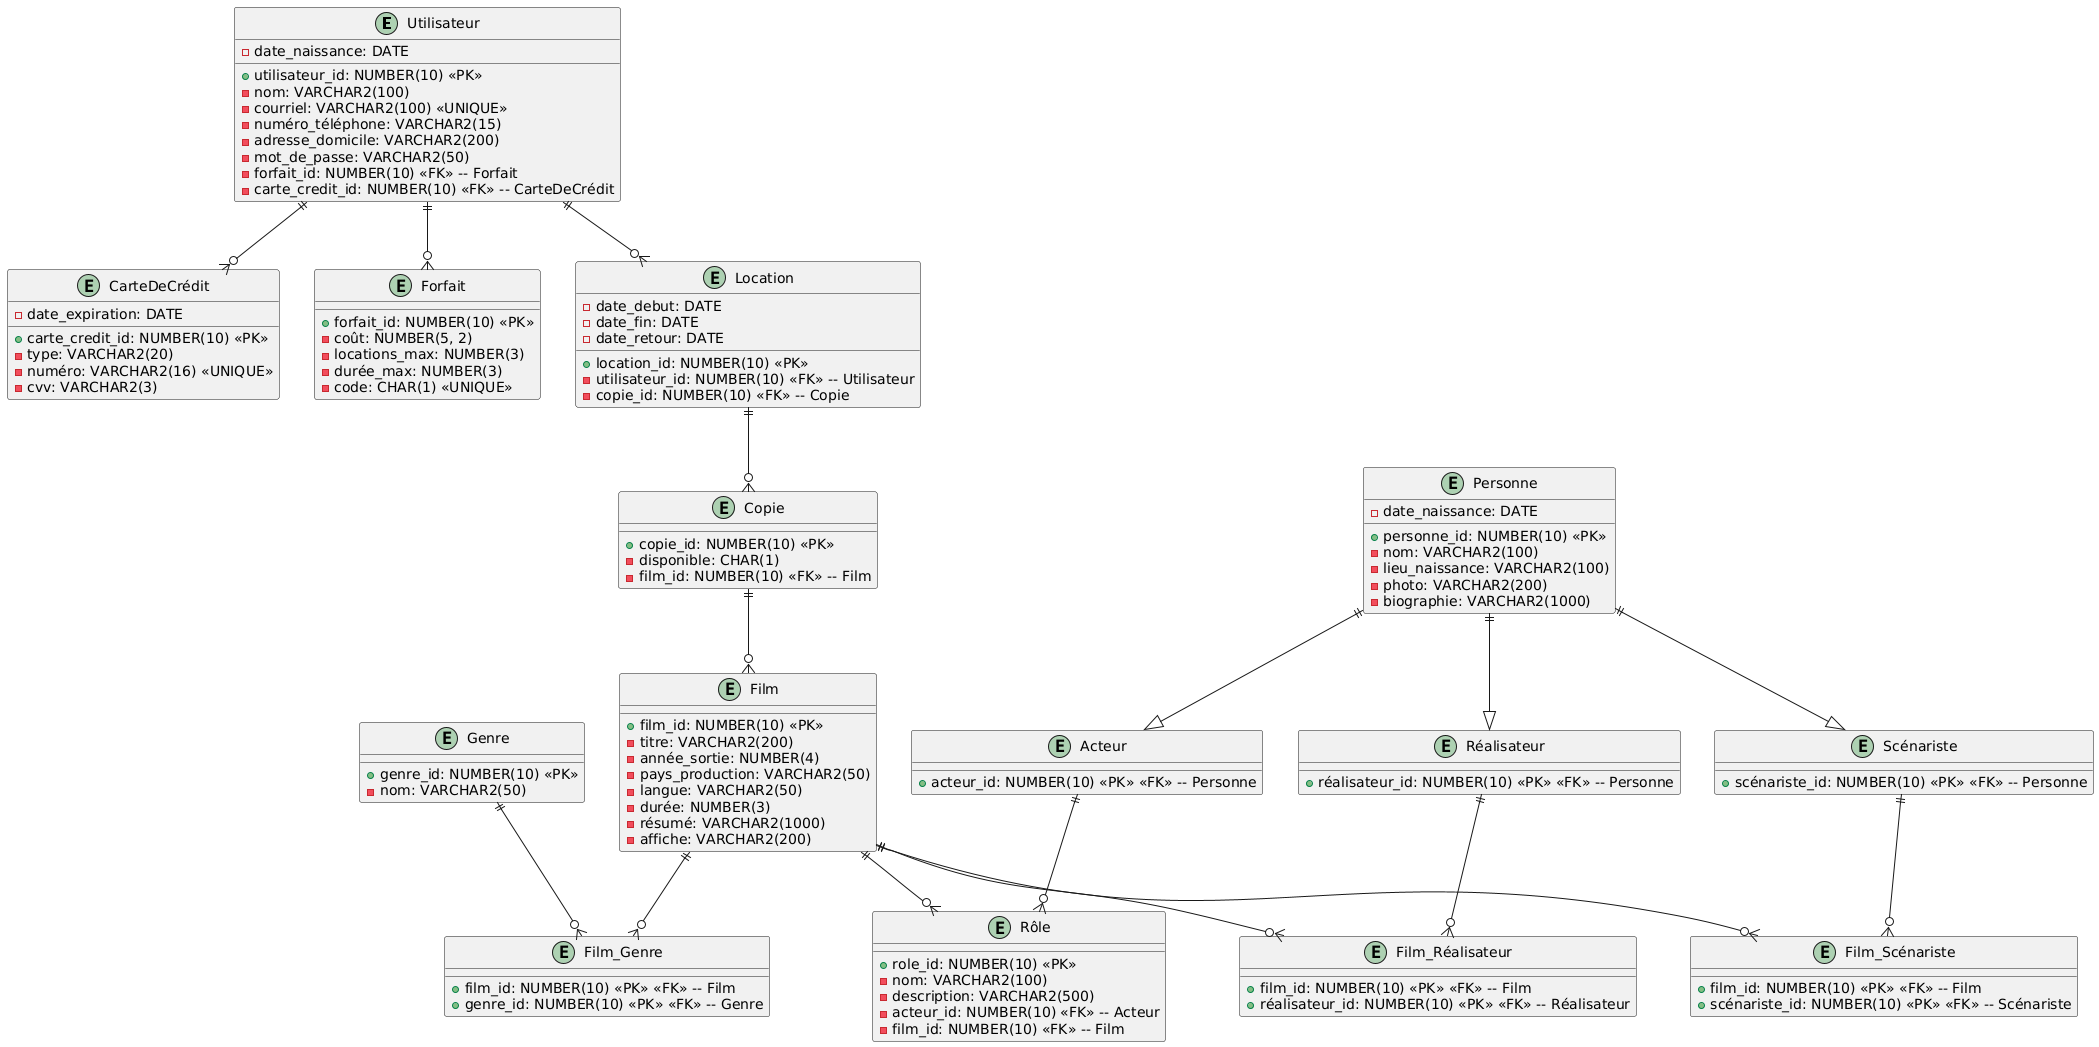
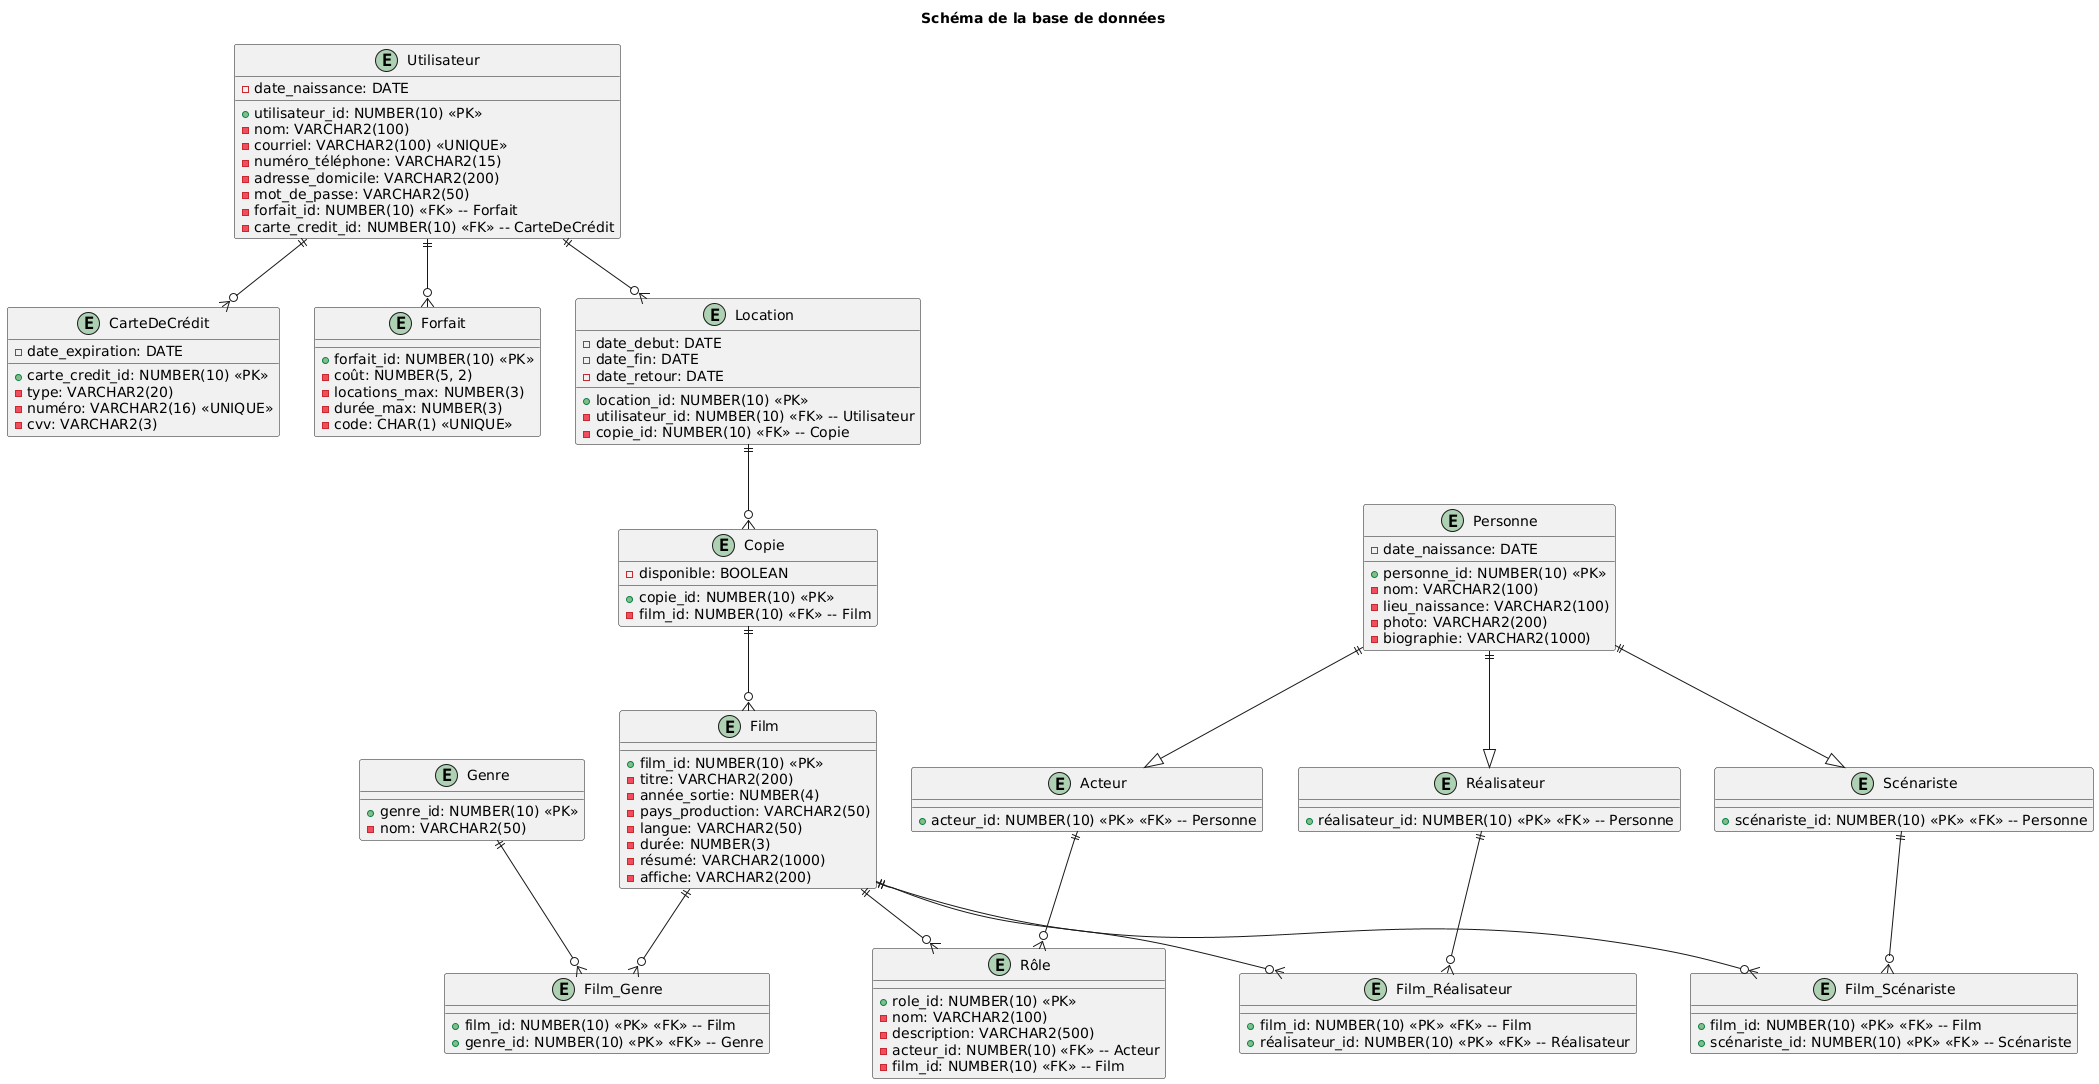
Refactor class diagram and add database schema diagram

diff --git a/README.md b/README.md
@@ -3,3 +3,7 @@
 ## Diagramme de classe
 
 ![class](/out/class/class%20diagram.png)
+
+## Schéma relationnel
+
+![schema](/out/schema/schema.png)
